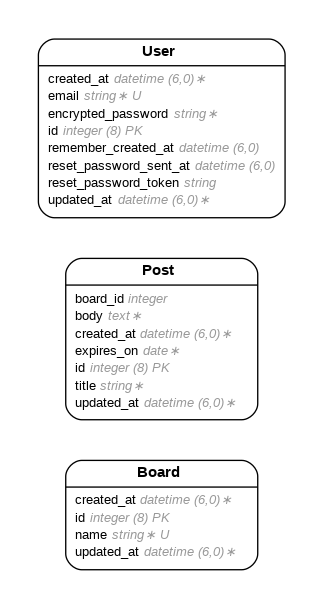
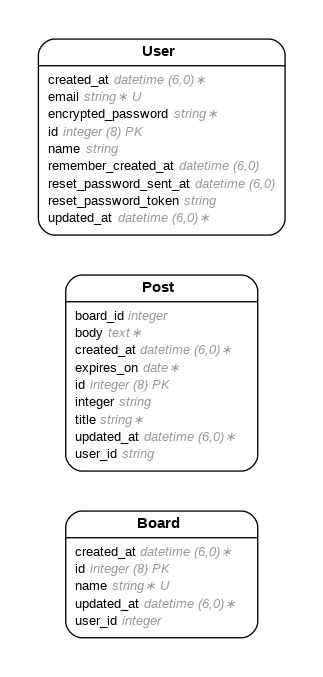
use_id to boards/ posts, renew the sample data to include users

diff --git a/db/schema.rb b/db/schema.rb
@@ -10,7 +10,7 @@
 #
 # It's strongly recommended that you check this file into your version control system.
 
-ActiveRecord::Schema[7.1].define(version: 2025_02_26_165517) do
+ActiveRecord::Schema[7.1].define(version: 2025_02_26_172205) do
   # These are extensions that must be enabled in order to support this database
   enable_extension "plpgsql"
 
@@ -18,6 +18,7 @@ ActiveRecord::Schema[7.1].define(version: 2025_02_26_165517) do
     t.string "name"
     t.datetime "created_at", null: false
     t.datetime "updated_at", null: false
+    t.integer "user_id"
   end
 
   create_table "posts", force: :cascade do |t|
@@ -27,6 +28,8 @@ ActiveRecord::Schema[7.1].define(version: 2025_02_26_165517) do
     t.integer "board_id"
     t.datetime "created_at", null: false
     t.datetime "updated_at", null: false
+    t.string "user_id"
+    t.string "integer"
   end
 
   create_table "users", force: :cascade do |t|
@@ -37,6 +40,7 @@ ActiveRecord::Schema[7.1].define(version: 2025_02_26_165517) do
     t.datetime "remember_created_at"
     t.datetime "created_at", null: false
     t.datetime "updated_at", null: false
+    t.string "name"
     t.index ["email"], name: "index_users_on_email", unique: true
     t.index ["reset_password_token"], name: "index_users_on_reset_password_token", unique: true
   end

diff --git a/app/models/post.rb b/app/models/post.rb
@@ -5,10 +5,12 @@
 #  id         :bigint           not null, primary key
 #  body       :text
 #  expires_on :date
+#  integer    :string
 #  title      :string
 #  created_at :datetime         not null
 #  updated_at :datetime         not null
 #  board_id   :integer
+#  user_id    :string
 #
 class Post < ApplicationRecord
   validates(:title, presence: true)

diff --git a/app/models/user.rb b/app/models/user.rb
@@ -5,6 +5,7 @@
 #  id                     :bigint           not null, primary key
 #  email                  :string           default(""), not null
 #  encrypted_password     :string           default(""), not null
+#  name                   :string
 #  remember_created_at    :datetime
 #  reset_password_sent_at :datetime
 #  reset_password_token   :string

diff --git a/app/controllers/boards_controller.rb b/app/controllers/boards_controller.rb
@@ -27,6 +27,8 @@ class BoardsController < ApplicationController
     the_board = Board.new
     the_board.name = params.fetch("query_name")
 
+    the_board.user_id = current_user.id
+
     if the_board.valid?
       the_board.save
       redirect_to("/boards/#{the_board.id}", { :notice => "Board created successfully." })

diff --git a/app/models/board.rb b/app/models/board.rb
@@ -6,6 +6,7 @@
 #  name       :string
 #  created_at :datetime         not null
 #  updated_at :datetime         not null
+#  user_id    :integer
 #
 class Board < ApplicationRecord
   validates(:name, presence: true, uniqueness: true)

diff --git a/db/migrate/20250226172205_add_name_to_users.rb b/db/migrate/20250226172205_add_name_to_users.rb
@@ -1,0 +1,5 @@
+class AddNameToUsers < ActiveRecord::Migration[7.1]
+  def change
+    add_column :users, :name, :string
+  end
+end
